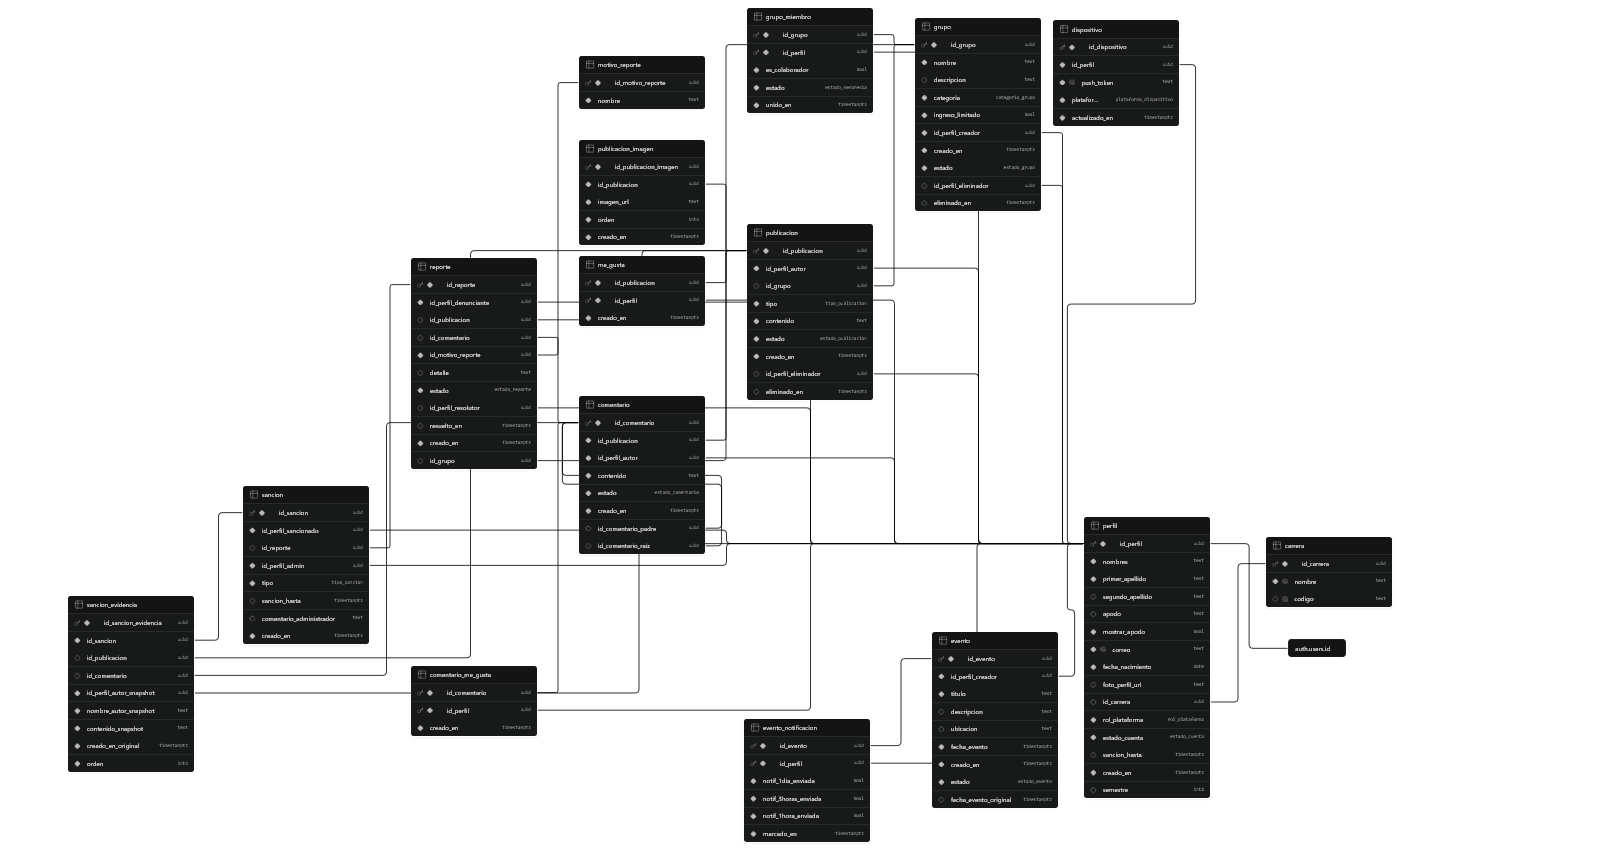
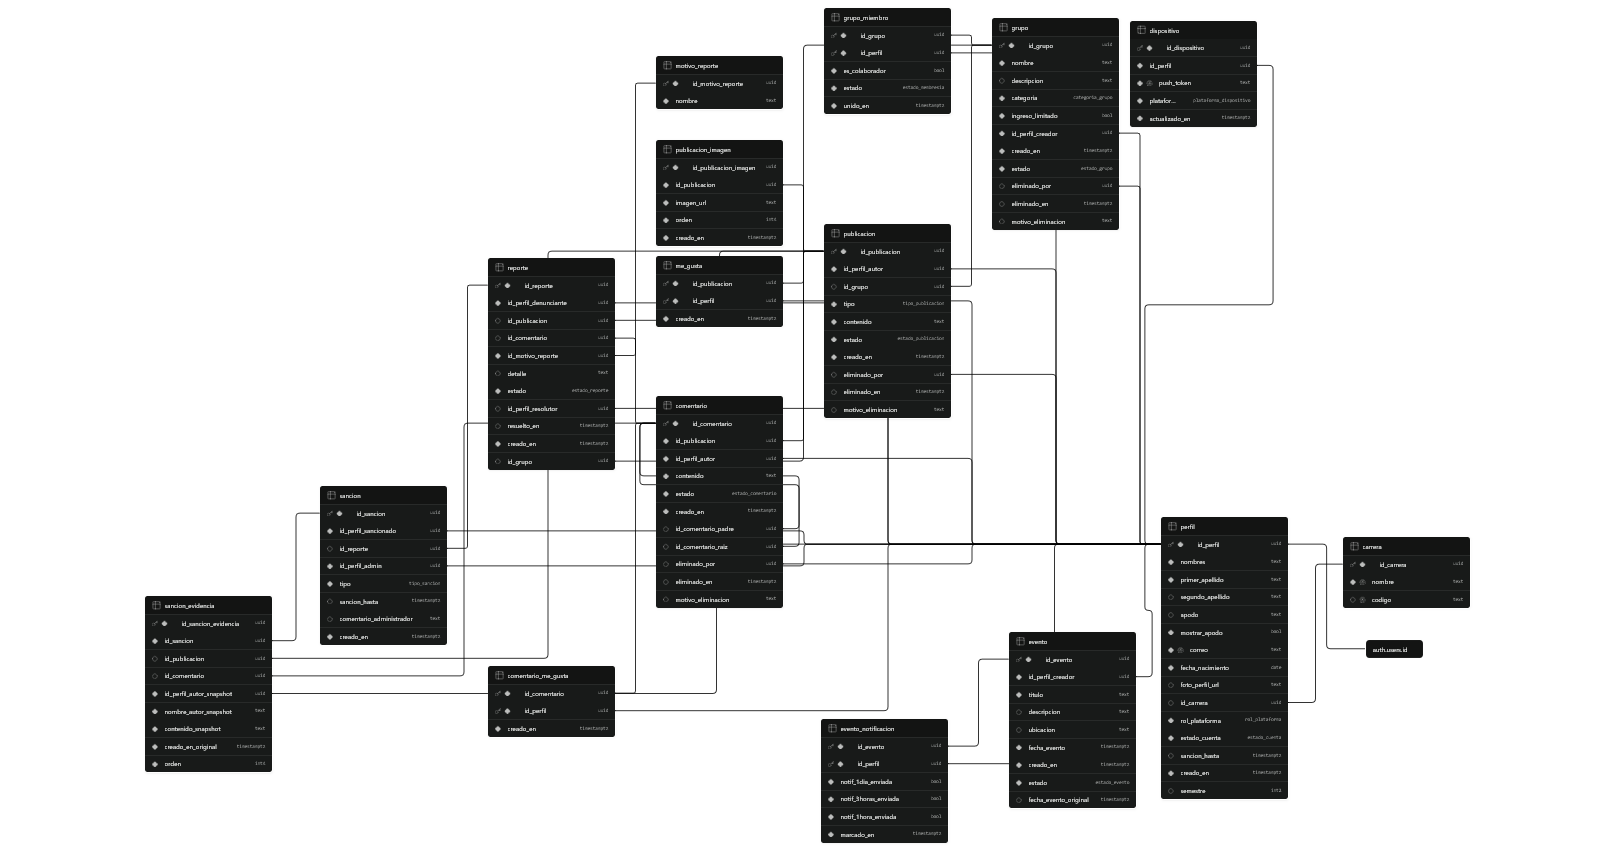
bugfixes y actualizacion modelo relacional

diff --git a/Fase 2/MVP/backend/src/routes/reportes.js b/Fase 2/MVP/backend/src/routes/reportes.js
@@ -13,7 +13,7 @@ function responderError(res, error) {
 }
 
 // Valida que el usuario pueda ver lo que reporta y que no sea suyo.
-async function validarObjetivo({ id_publicacion, id_grupo }, idPerfil) {
+async function validarObjetivo({ id_publicacion, id_grupo, id_comentario }, idPerfil) {
   if (id_publicacion) {
     const { data: publicacion, error } = await supabaseAdmin
       .from("publicacion")
@@ -30,6 +30,24 @@ async function validarObjetivo({ id_publicacion, id_grupo }, idPerfil) {
 
     const { grupo, rol } = await obtenerContextoGrupo(publicacion.id_grupo, idPerfil);
     if (!puedeVerPosts(grupo, rol)) throw errorConStatus("Publicación no encontrada", 404);
+    return;
+  }
+
+  if (id_comentario) {
+    const { data: comentario, error } = await supabaseAdmin
+      .from("comentario")
+      .select("id_comentario, id_perfil_autor, publicacion:id_publicacion(id_grupo)")
+      .eq("id_comentario", id_comentario)
+      .eq("estado", "activo")
+      .maybeSingle();
+
+    if (error || !comentario) throw errorConStatus("Comentario no encontrado", 404);
+    if (comentario.id_perfil_autor === idPerfil) {
+      throw errorConStatus("No puedes reportar tu propio comentario", 400);
+    }
+
+    const { grupo, rol } = await obtenerContextoGrupo(comentario.publicacion.id_grupo, idPerfil);
+    if (!puedeVerPosts(grupo, rol)) throw errorConStatus("Comentario no encontrado", 404);
     return;
   }
 
@@ -57,10 +75,11 @@ reportesRouter.get("/motivos", requireAuth, async (req, res) => {
 // Queda en estado 'pendiente' (default de la tabla) hasta que un administrador lo resuelva.
 reportesRouter.post("/", requireAuth, requireCuentaActiva, async (req, res) => {
   try {
-    const { id_publicacion, id_grupo, id_motivo_reporte, detalle } = req.body;
+    const { id_publicacion, id_grupo, id_comentario, id_motivo_reporte, detalle } = req.body;
 
-    if (Boolean(id_publicacion) === Boolean(id_grupo)) {
-      throw errorConStatus("Indica exactamente uno: id_publicacion o id_grupo", 400);
+    const objetivos = [id_publicacion, id_grupo, id_comentario].filter(Boolean);
+    if (objetivos.length !== 1) {
+      throw errorConStatus("Indica exactamente uno: id_publicacion, id_grupo o id_comentario", 400);
     }
     if (typeof id_motivo_reporte !== "string" || !id_motivo_reporte) {
       throw errorConStatus("Falta id_motivo_reporte", 400);
@@ -74,7 +93,7 @@ reportesRouter.post("/", requireAuth, requireCuentaActiva, async (req, res) => {
     }
 
     const idPerfil = req.usuario.id_perfil;
-    await validarObjetivo({ id_publicacion, id_grupo }, idPerfil);
+    await validarObjetivo({ id_publicacion, id_grupo, id_comentario }, idPerfil);
 
     const { data, error } = await supabaseAdmin
       .from("reporte")
@@ -82,15 +101,14 @@ reportesRouter.post("/", requireAuth, requireCuentaActiva, async (req, res) => {
         id_perfil_denunciante: idPerfil,
         id_publicacion: id_publicacion ?? null,
         id_grupo: id_grupo ?? null,
+        id_comentario: id_comentario ?? null,
         id_motivo_reporte,
         detalle: detalleLimpio === "" ? null : detalleLimpio,
       })
       .select("id_reporte, estado, creado_en")
       .single();
 
-    // 23505 = índice único parcial: ya hay un reporte pendiente de este usuario sobre lo mismo
     if (error?.code === "23505") throw errorConStatus("Ya reportaste esto", 409);
-    // 23503 = FK inexistente; 22P02 = uuid mal formado
     if (error?.code === "23503" || error?.code === "22P02") {
       throw errorConStatus("Motivo de reporte inválido", 400);
     }

diff --git a/Fase 2/MVP/backend/src/routes/publicaciones.js b/Fase 2/MVP/backend/src/routes/publicaciones.js
@@ -153,7 +153,7 @@ publicacionesRouter.post("/:id/comentarios", requireAuth, requireCuentaActiva, a
       throw errorConStatus("Solo los miembros activos del grupo pueden comentar", 403);
     }
 
-    const contenido = validarContenido(req.body.contenido);
+    let contenido = validarContenido(req.body.contenido);
     const { id_comentario_padre } = req.body;
 
     let padre = null;
@@ -164,7 +164,7 @@ publicacionesRouter.post("/:id/comentarios", requireAuth, requireCuentaActiva, a
 
       const { data, error } = await supabaseAdmin
         .from("comentario")
-        .select("id_comentario, id_comentario_raiz")
+        .select(`id_comentario, id_comentario_padre, id_comentario_raiz, autor:id_perfil_autor(${SELECT_AUTOR})`)
         .eq("id_comentario", id_comentario_padre)
         .eq("id_publicacion", publicacion.id_publicacion) // debe ser de ESTA publicación
         .eq("estado", "activo") // no se responde a algo eliminado
@@ -178,17 +178,29 @@ publicacionesRouter.post("/:id/comentarios", requireAuth, requireCuentaActiva, a
       idRaiz = data.id_comentario_raiz ?? data.id_comentario;
     }
 
-    const { data: creado, error } = await supabaseAdmin
-      .from("comentario")
-      .insert({
-        id_publicacion: publicacion.id_publicacion,
-        id_perfil_autor: req.usuario.id_perfil,
-        contenido,
-        id_comentario_padre: padre?.id_comentario ?? null,
-        id_comentario_raiz: idRaiz,
-      })
-      .select(SELECT_COMENTARIO)
-      .single();
+    const insertar = (idComentarioPadre) =>
+      supabaseAdmin
+        .from("comentario")
+        .insert({
+          id_publicacion: publicacion.id_publicacion,
+          id_perfil_autor: req.usuario.id_perfil,
+          contenido,
+          id_comentario_padre: idComentarioPadre,
+          id_comentario_raiz: idRaiz,
+        })
+        .select(SELECT_COMENTARIO)
+        .single();
+
+    let { data: creado, error } = await insertar(padre?.id_comentario ?? null);
+
+    // El trigger fn_validar_hilo_comentario rechaza (P0001) responder directo a un nivel 3.
+    // En ese caso, la respuesta se adjunta al nivel 2 (el padre del padre) con mención al autor original.
+    if (error?.code === "P0001" && padre?.id_comentario_padre) {
+      const nombreOriginal =
+        padre.autor.mostrar_apodo && padre.autor.apodo ? padre.autor.apodo : padre.autor.nombres;
+      contenido = `@${nombreOriginal} ${contenido}`;
+      ({ data: creado, error } = await insertar(padre.id_comentario_padre));
+    }
 
     if (error || !creado) throw errorConStatus("No se pudo publicar el comentario", 500);
 

diff --git a/Fase 2/MVP/backend/src/routes/grupos.js b/Fase 2/MVP/backend/src/routes/grupos.js
@@ -454,7 +454,9 @@ gruposRouter.post("/:id/publicaciones", requireAuth, requireCuentaActiva, async 
 });
 
 // DELETE /grupos/:id/publicaciones/:idPublicacion — borrado suave (estado = 'eliminada').
-// Puede hacerlo el autor, o el moderador / un colaborador.
+// Puede hacerlo el autor, o el moderador / un colaborador. Guarda quién, cuándo y motivo
+// (automático si es el propio autor, opcional si lo hace un moderador/colaborador), como exige
+// la trazabilidad de MO-0001-0006.
 gruposRouter.delete("/:id/publicaciones/:idPublicacion", requireAuth, requireCuentaActiva, async (req, res) => {
   try {
     const { grupo, rol } = await obtenerContextoGrupo(req.params.id, req.usuario.id_perfil);
@@ -475,12 +477,29 @@ gruposRouter.delete("/:id/publicaciones/:idPublicacion", requireAuth, requireCue
       throw errorConStatus("Solo el autor, el moderador o un colaborador puede eliminar esta publicación", 403);
     }
 
-    const { error: errorUpdate } = await supabaseAdmin
+    const motivo = typeof req.body?.motivo === "string" ? req.body.motivo.trim() : "";
+    if (motivo.length > 200) {
+      throw errorConStatus("motivo admite hasta 200 caracteres", 400);
+    }
+    // Si elimina el propio autor, el motivo es siempre el mismo (no se le pide ni se le deja editar).
+    // Si elimina un moderador/colaborador, el motivo que haya escrito es opcional.
+    const motivoFinal = esAutor ? "Eliminado por el usuario" : motivo === "" ? null : motivo;
+
+    const { data: actualizada, error: errorUpdate } = await supabaseAdmin
       .from("publicacion")
-      .update({ estado: "eliminada" })
-      .eq("id_publicacion", publicacion.id_publicacion);
+      .update({
+        estado: "eliminada",
+        eliminado_por: req.usuario.id_perfil,
+        eliminado_en: new Date().toISOString(),
+        motivo_eliminacion: motivoFinal,
+      })
+      .eq("id_publicacion", publicacion.id_publicacion)
+      .eq("estado", "activa") // si dos personas la eliminan a la vez, solo la primera queda registrada
+      .select("id_publicacion")
+      .maybeSingle();
 
     if (errorUpdate) throw errorConStatus("No se pudo eliminar la publicación", 500);
+    if (!actualizada) throw errorConStatus("Publicación no encontrada", 404);
 
     res.json({ ok: true });
   } catch (error) {
